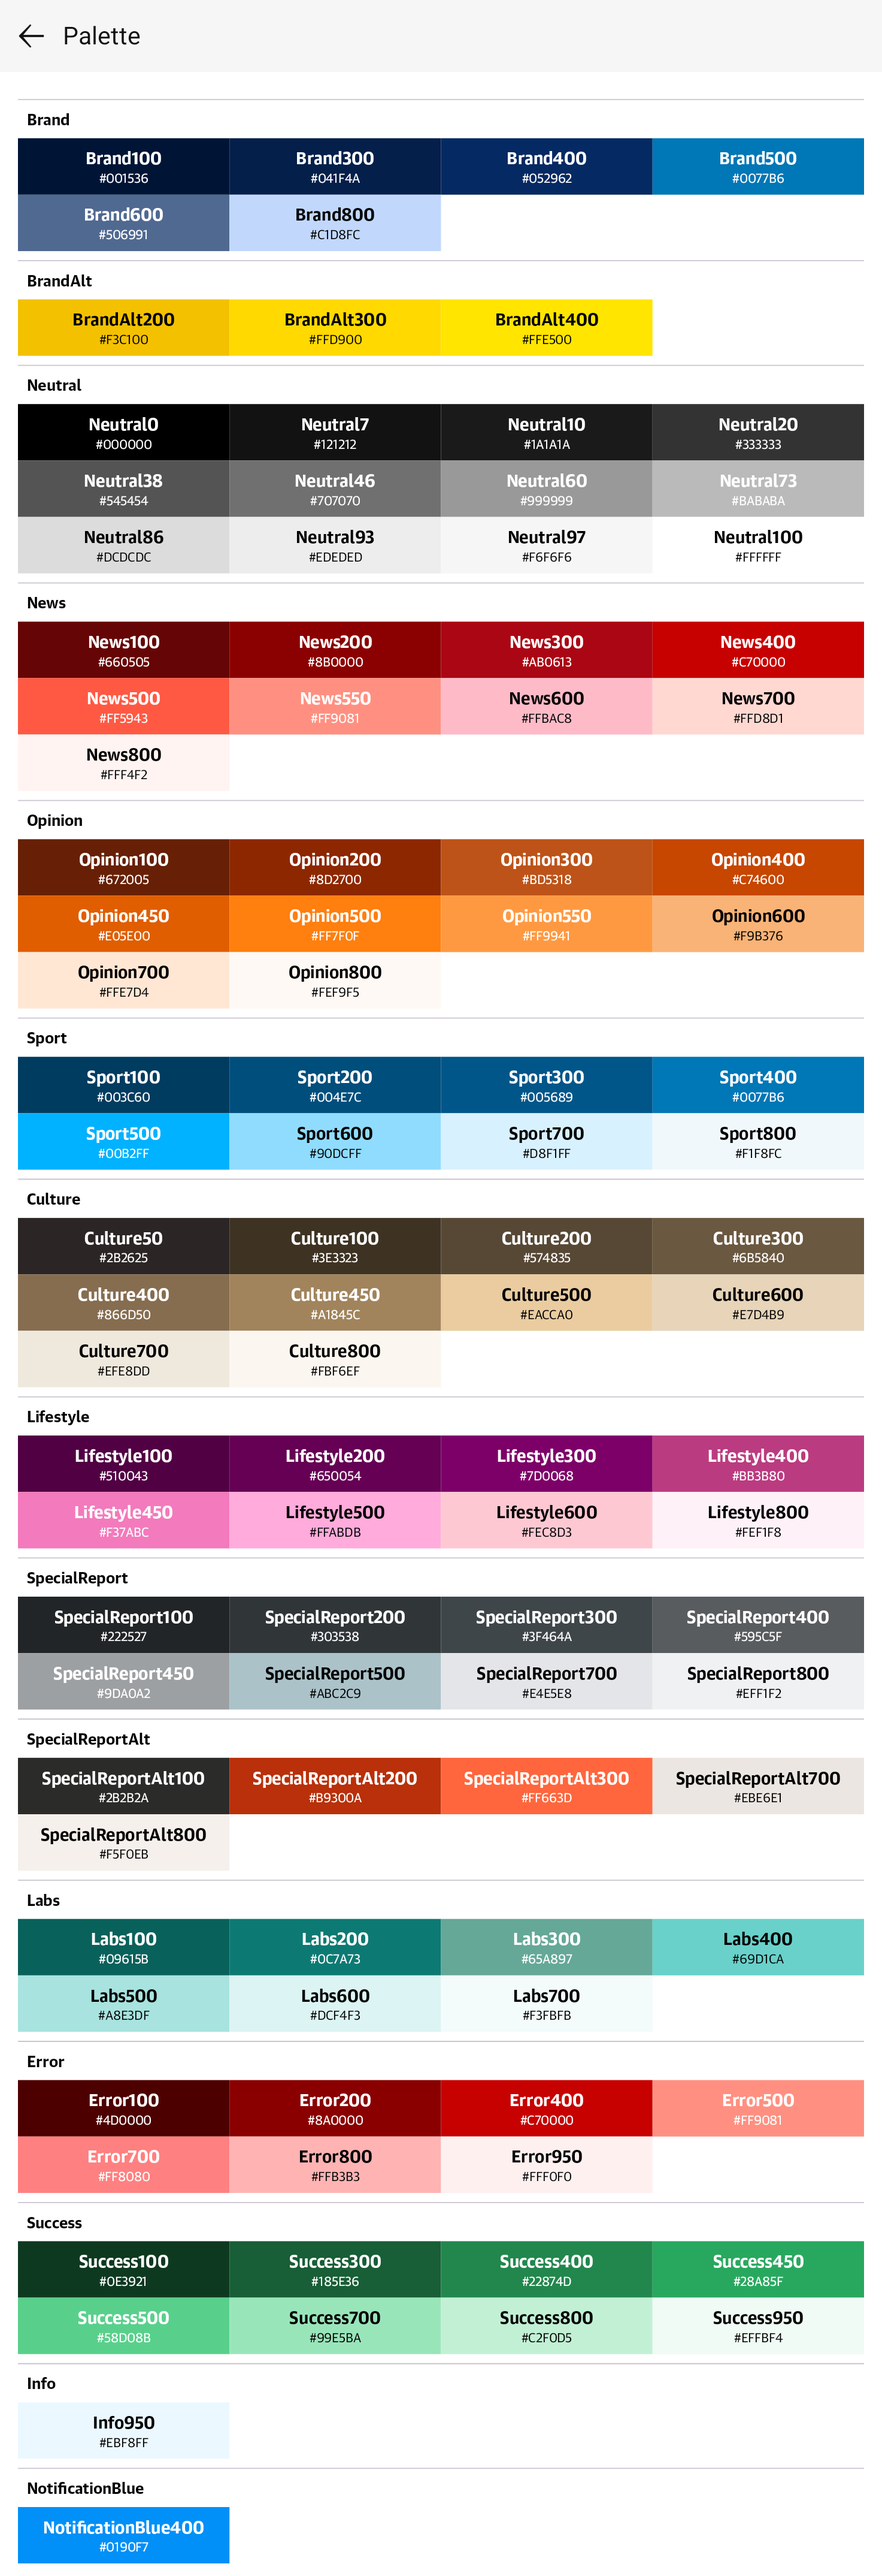
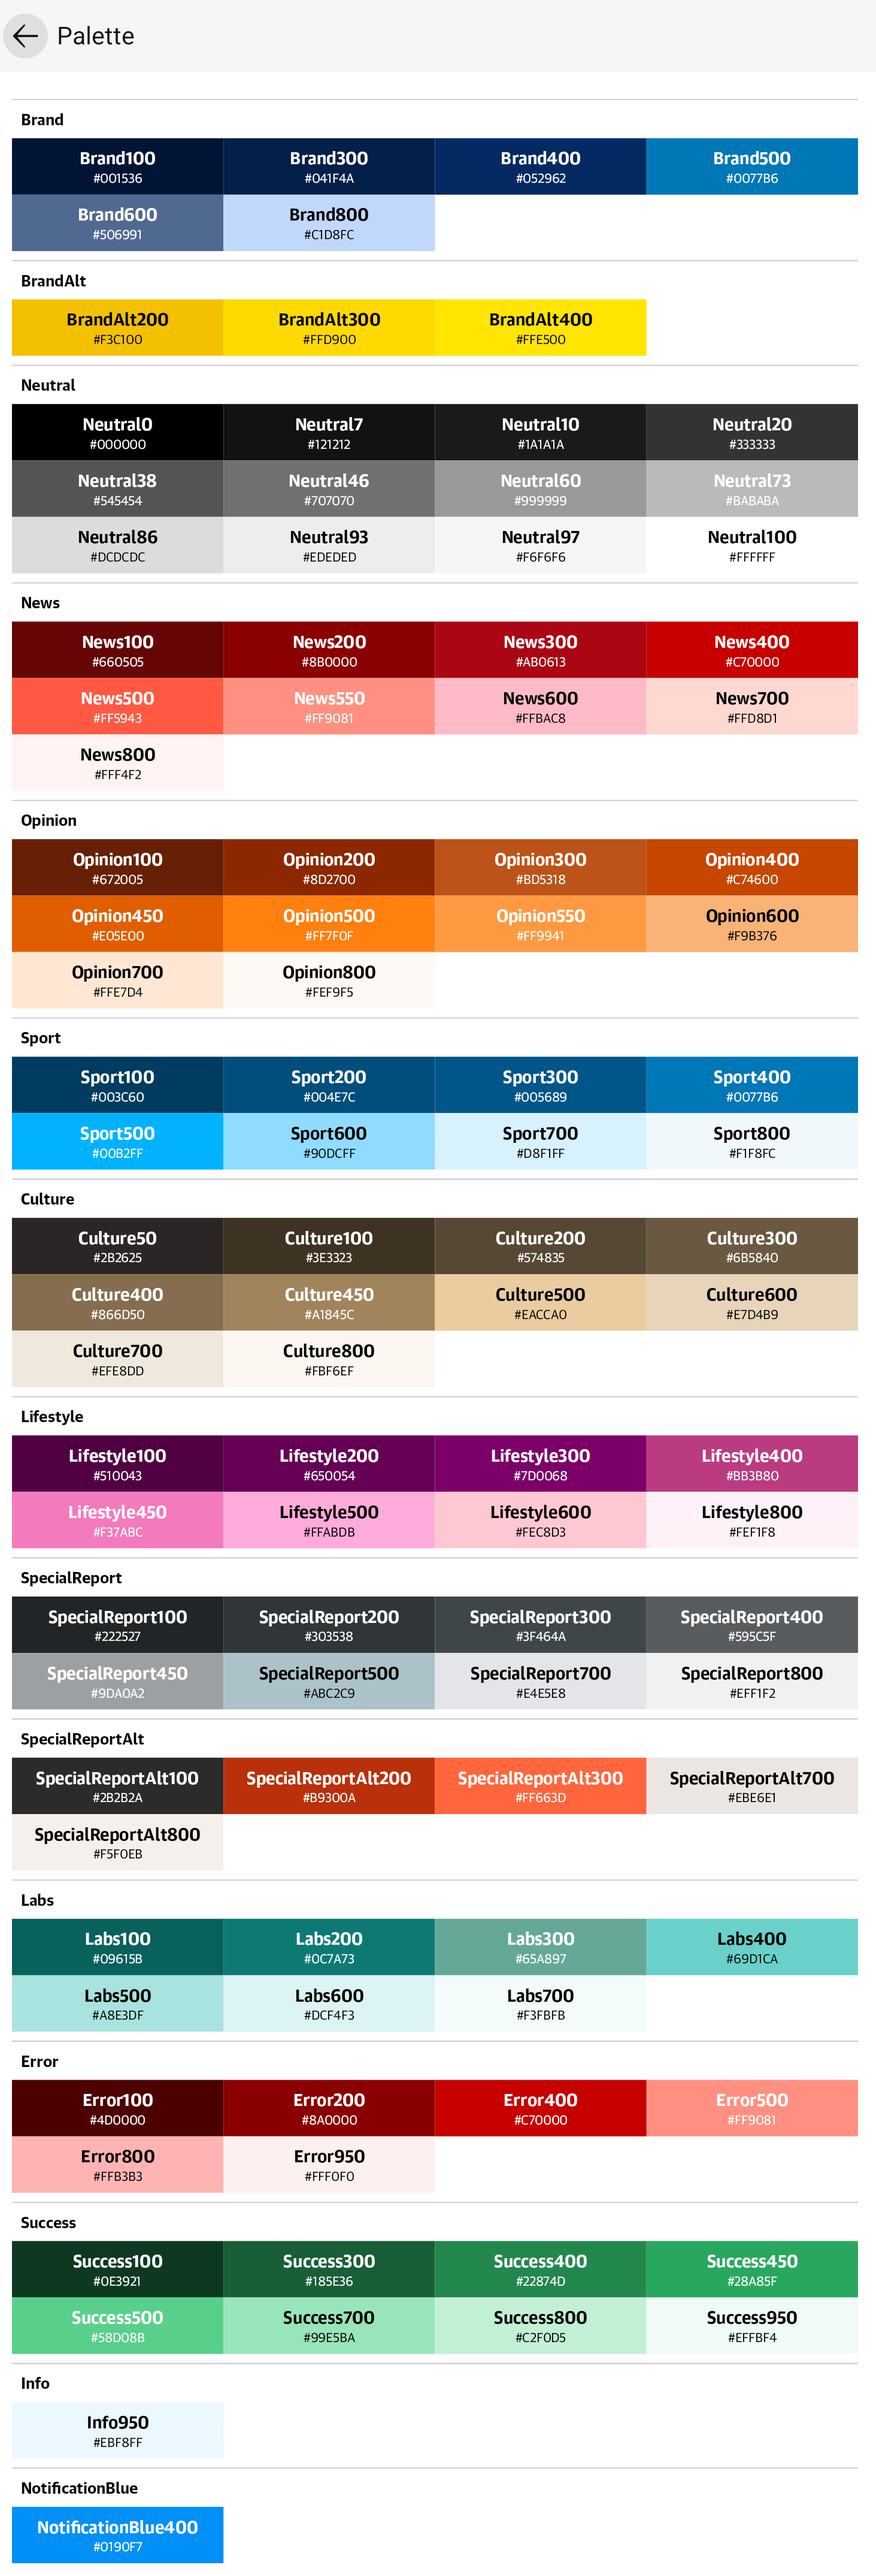
Remove `Error.700`

diff --git a/android/sample/src/main/kotlin/com/gu/source/previews/PalettePreview.kt b/android/sample/src/main/kotlin/com/gu/source/previews/PalettePreview.kt
@@ -49,7 +49,6 @@ import com.gu.source.foundation.palette.Error100
 import com.gu.source.foundation.palette.Error200
 import com.gu.source.foundation.palette.Error400
 import com.gu.source.foundation.palette.Error500
-import com.gu.source.foundation.palette.Error700
 import com.gu.source.foundation.palette.Error800
 import com.gu.source.foundation.palette.Error950
 import com.gu.source.foundation.palette.Info950
@@ -258,7 +257,6 @@ private val colours = mapOf(
         Colour("Error200", Source.Palette.Error200),
         Colour("Error400", Source.Palette.Error400),
         Colour("Error500", Source.Palette.Error500),
-        Colour("Error700", Source.Palette.Error700),
         Colour("Error800", Source.Palette.Error800),
         Colour("Error950", Source.Palette.Error950),
     ),

diff --git a/android/source/src/main/kotlin/com/gu/source/foundation/palette/Palette.kt b/android/source/src/main/kotlin/com/gu/source/foundation/palette/Palette.kt
@@ -63,8 +63,6 @@ val Source.Palette.Error400: Color
     get() = Color(color = 0xffc70000)
 val Source.Palette.Error500: Color
     get() = Color(color = 0xffff9081)
-val Source.Palette.Error700: Color
-    get() = Color(color = 0xffff8080)
 val Source.Palette.Error800: Color
     get() = Color(color = 0xffffb3b3)
 val Source.Palette.Error950: Color
